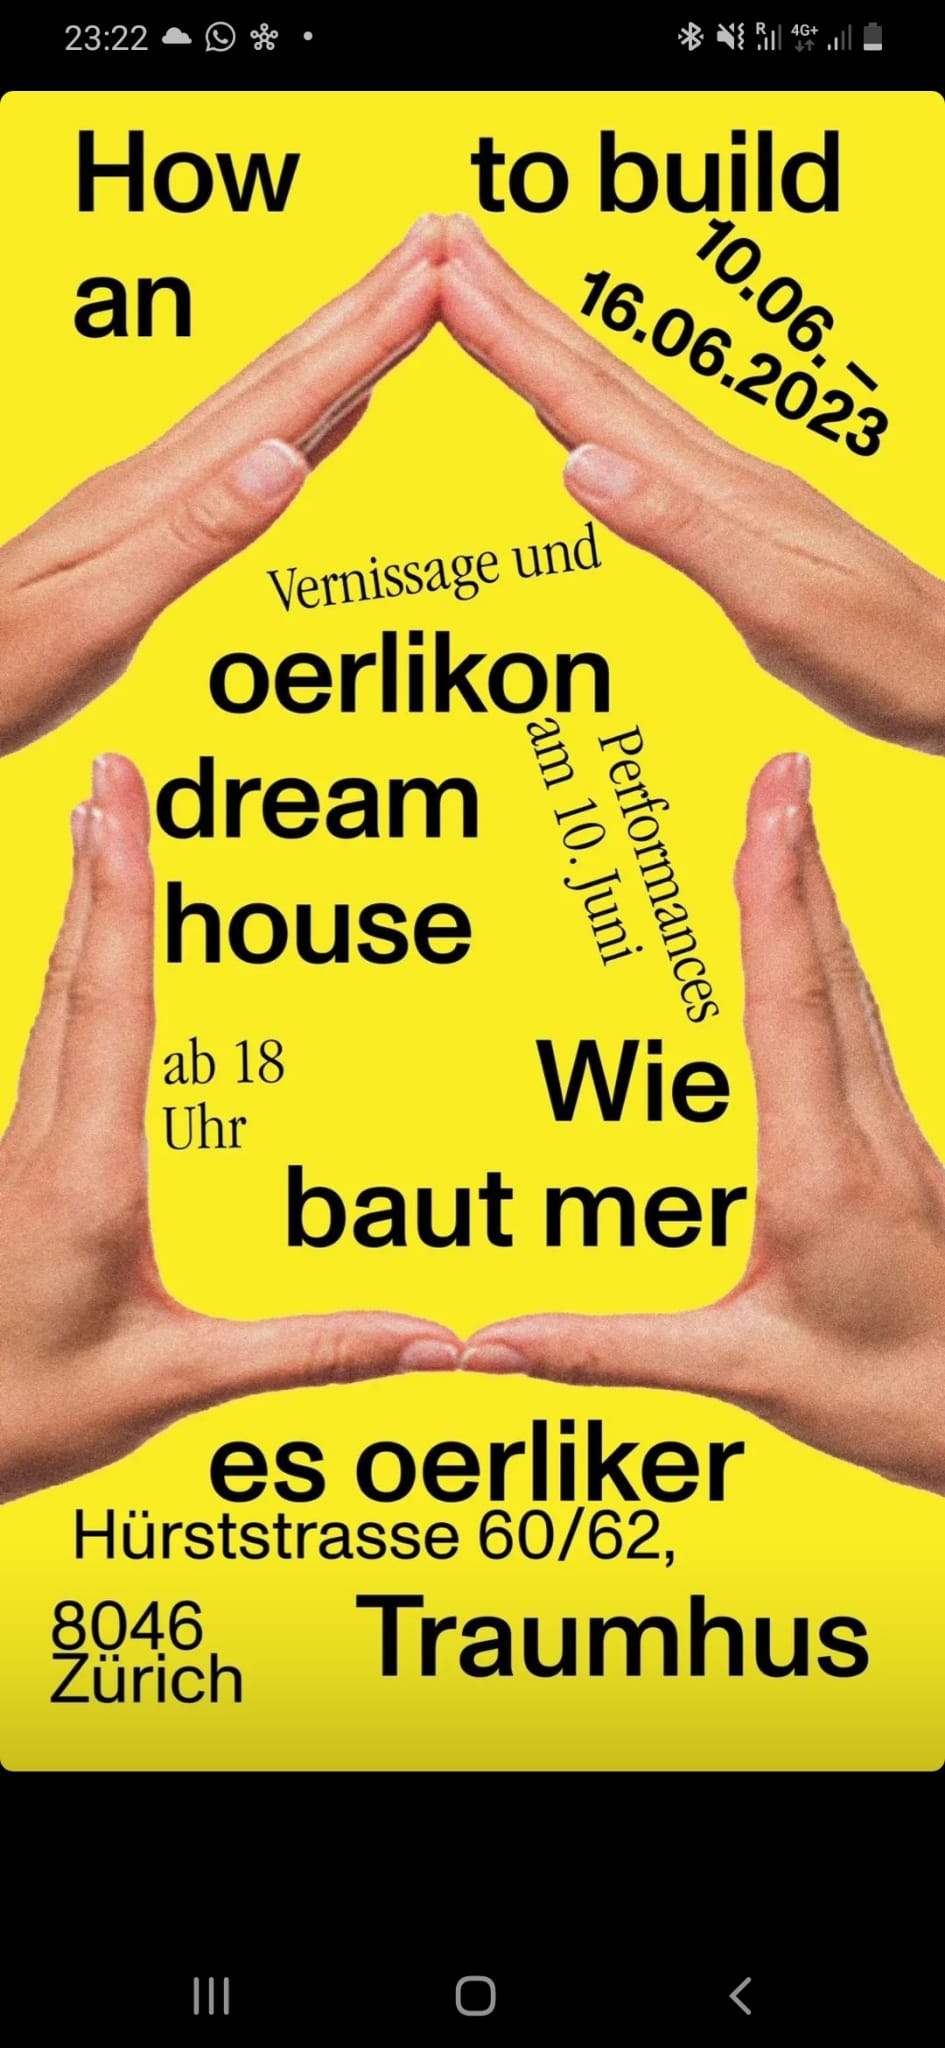
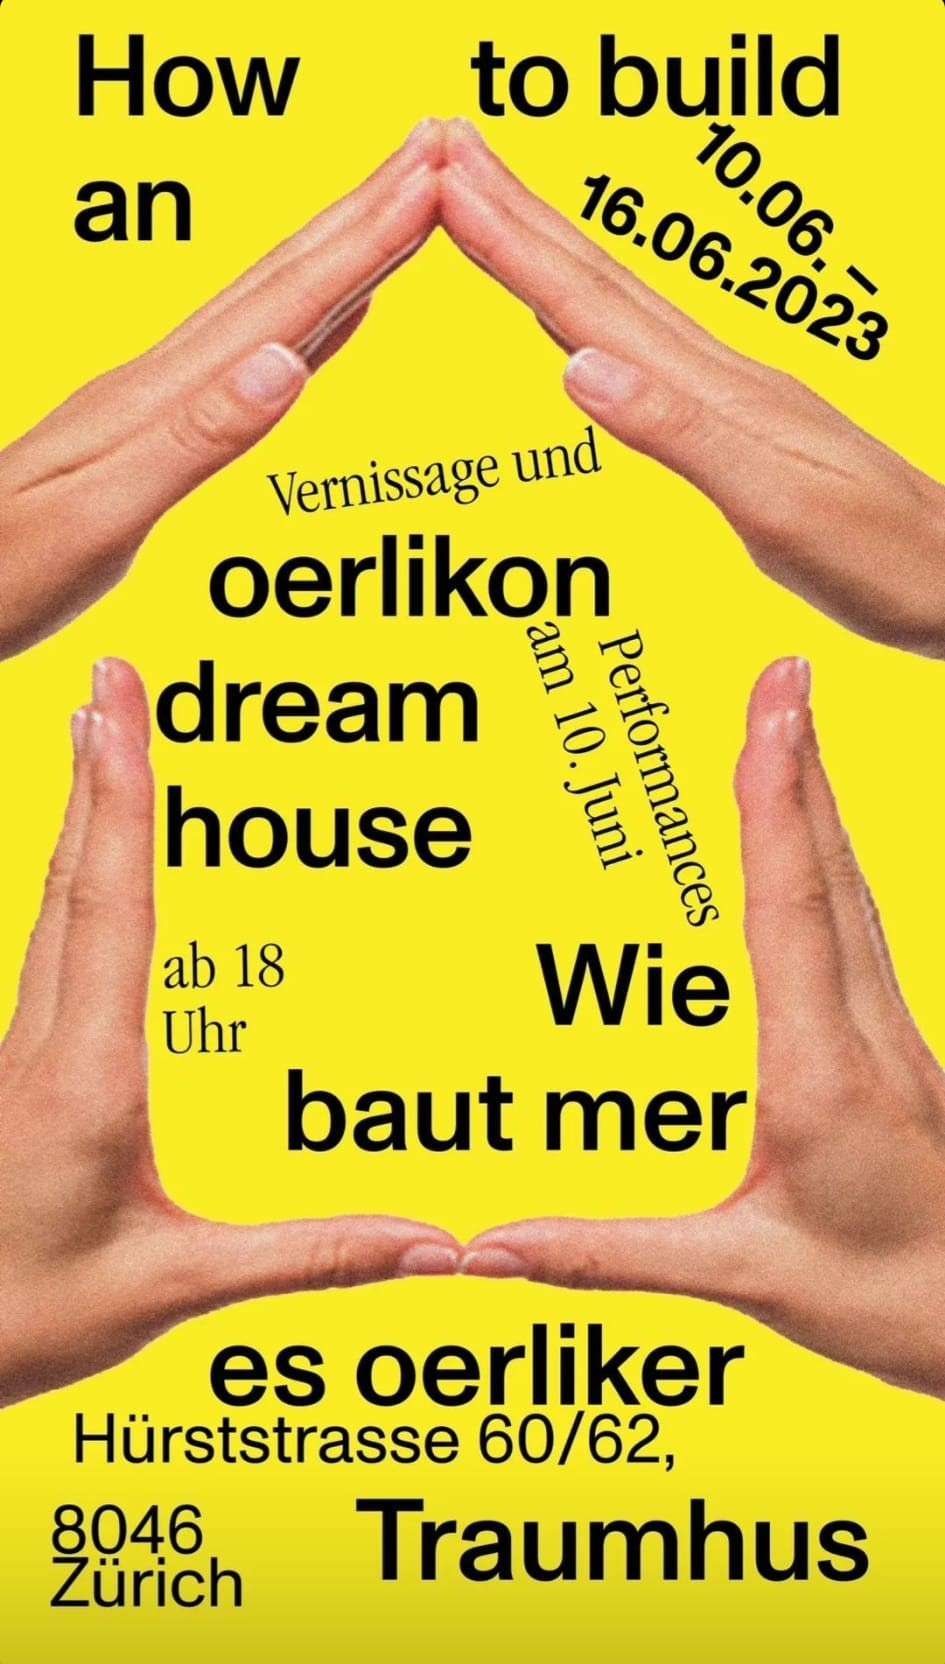
UPDATE

diff --git a/index.html b/index.html
@@ -23,12 +23,13 @@
  <h3><a href="archive.html">Archive</a></h3>
  <h3><a href="contact.html">Contact</a></h3>
  <br/>
- <h3>Coming up soon: ZHdK diploma exhibition, 8th June, 17:00, Toni Areal<h3>
+ <h3>On going: ZHdK diploma exhibition, 9th-23rd June, Toni Areal<h3>
   <img class="img-margin" src="PELLAUD_lily_website01.jpg" alt="Prendre l'araignée par les cornes, 2023, Still image from video">
   <p class="italic-text p-margin" style="font-size: 14px;">Prendre l'araignée par les cornes, 2023, Still image from video</p>
   <p class="italic-text p-margin" style="font-size: 14px;">(Makeup Artist: Carolina Misztela)</p>
 <br/>
-<h3>Coming up soon: How to build an oerlikon dream house, 10th June, 18:00, Hürststrasse 60/62 <h3>
-    <img class="img-margin" src="Untitled 2-3.jpg">
+<br/>
+<h3>Coming up soon: How to build an oerlikon dream house<h3>
+    <img class="img-margin" src="Untitled 2-3.jpg" width="65%" height="auto">
   </body>
   </html>
